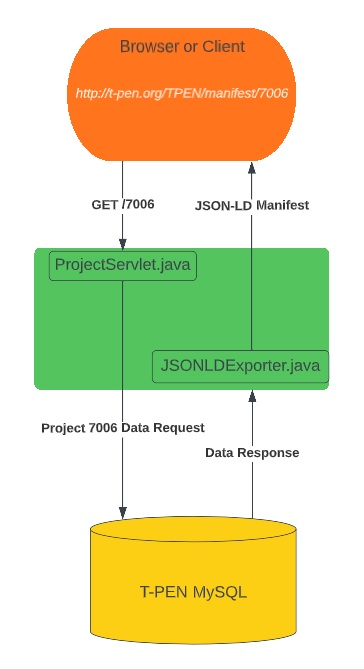
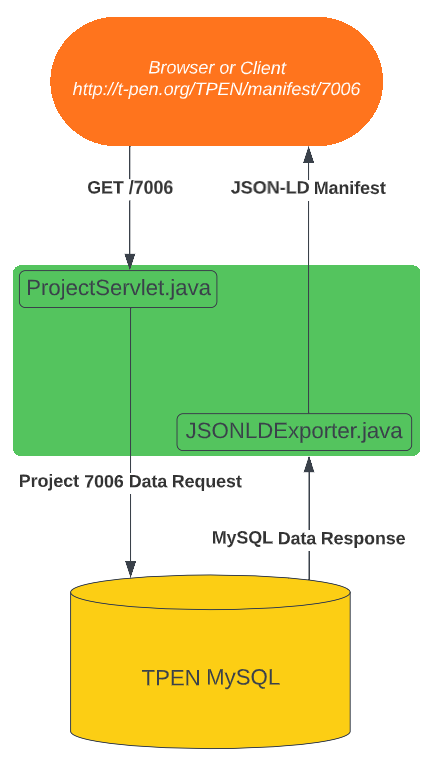
Replace diagrams with better ones

Changed region(s): [[0.0302, 0.0, 0.9973, 0.9865], [0.3324, 0.867, 0.6648, 0.8969], [0.5137, 0.8072, 0.544, 0.8371]]

diff --git a/CONTRIBUTING.md b/CONTRIBUTING.md
@@ -57,7 +57,7 @@ We will look specifically at the transcription interface located in `/web/transc
 
 #### 4.3 Interface Diagram
 <p align="middle">
-    <img align="top" src="web/images/diagram2.jpg" width="420"/> <img align="top" src="web/images/diagram3.jpg" width="225"/
+    <img align="top" src="web/images/diagram2.jpg" width="420"/> <img align="top" src="web/images/diagram3.jpg" width="225"/>
 </p>
 
 
